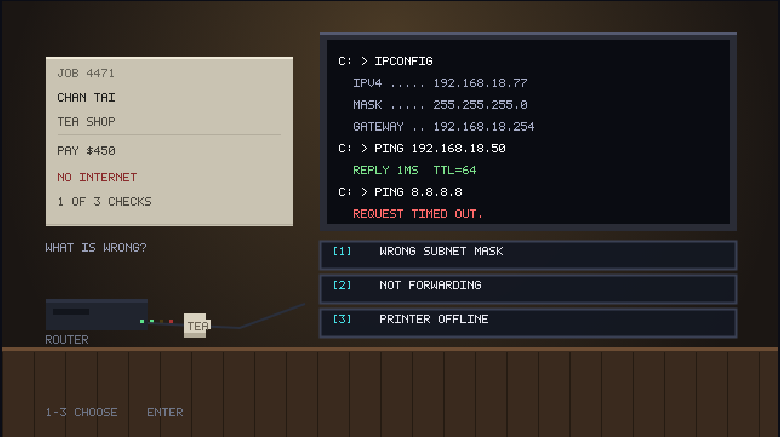
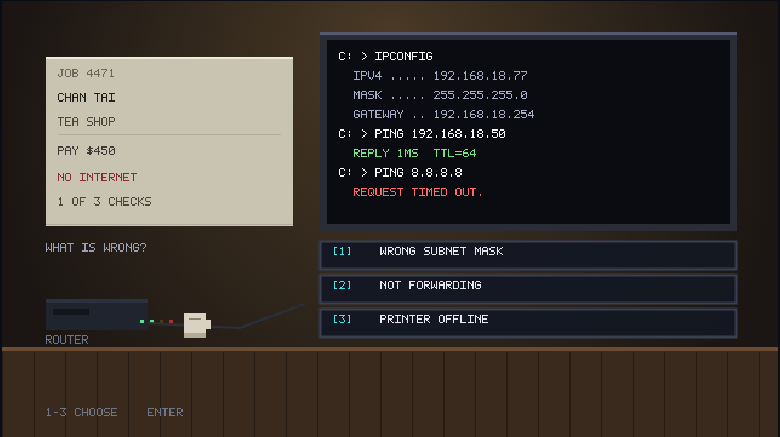
polish(job): console padding, router on the counter, cleaner desk

Changed region(s): [[0.4308, 0.119, 0.6769, 0.4462], [0.4615, 0.476, 0.6154, 0.5057], [0.2462, 0.714, 0.2769, 0.7437]]

diff --git a/src/main.ts b/src/main.ts
@@ -594,7 +594,7 @@ function drawJob(): void {
   ctx.fillStyle = '#d9d2c0'; ctx.fillRect(150, 258, 18, 20);
   ctx.fillStyle = '#b3ab98'; ctx.fillRect(150, 274, 18, 4);
   ctx.fillStyle = '#d9d2c0'; ctx.fillRect(168, 263, 4, 8);
-  text('tea', 153, 265, '#6b6355');
+  ctx.fillStyle = '#8a7f6a'; ctx.fillRect(154, 262, 10, 1);
 
   ctx.fillStyle = '#c9c3b2'; ctx.fillRect(36, 46, 204, 140);
   ctx.fillStyle = '#efe9d8'; ctx.fillRect(36, 46, 204, 2);
@@ -616,12 +616,12 @@ function drawJob(): void {
     const colour = line.includes('timed out') ? '#ff6a6a'
       : line.includes('reply') ? '#7be08a'
       : line.startsWith('C:') ? '#ffffff' : '#a8aec8';
-    text(line, 278, 46 + i * 18, colour);
+    text(line, 278, 42 + i * 16, colour);
   }
 
   if (job.step === 'typing' && Math.floor(performance.now() / 400) % 2 === 0) {
     ctx.fillStyle = '#7be08a';
-    ctx.fillRect(278, 52 + Math.max(0, job.shown - 1) * 18, 5, 1);
+    ctx.fillRect(278, 48 + Math.max(0, job.shown - 1) * 16, 5, 1);
   }
 
   text(job.hint, 36, 200, '#9aa0b8');
